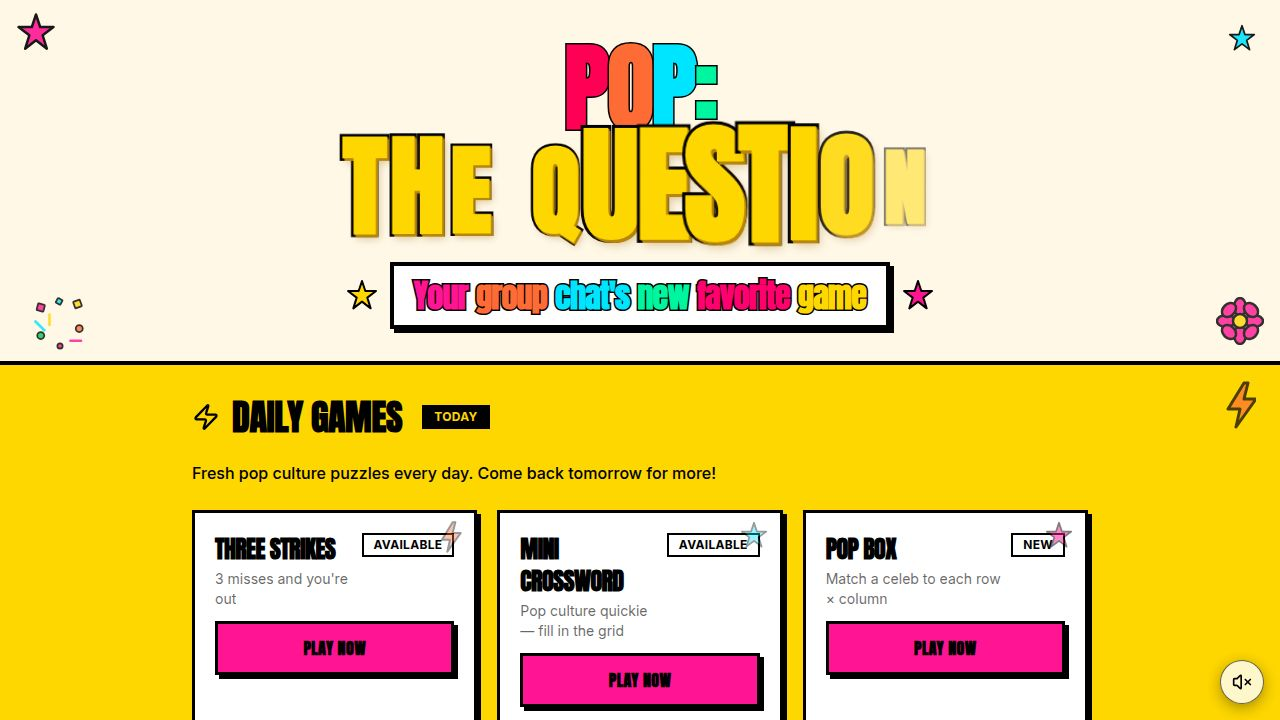
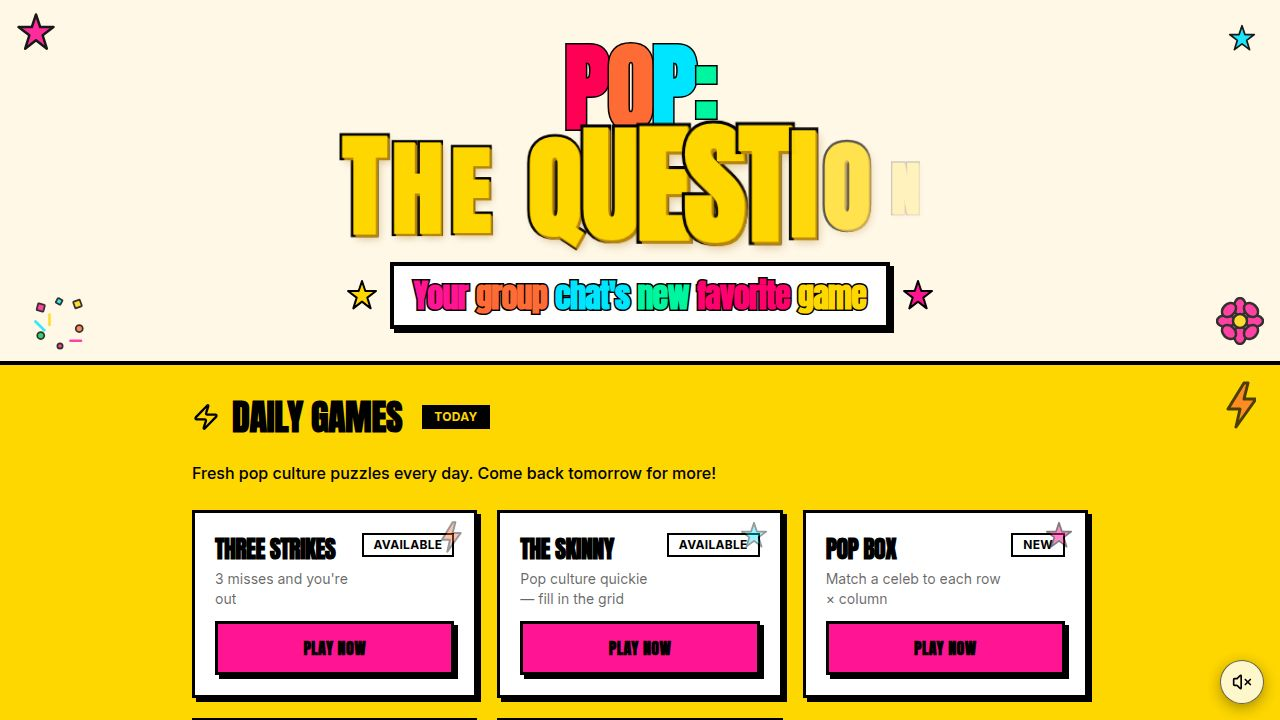
rename: Mini Crossword → The Skinny everywhere
- home.tsx: card heading "Mini Crossword" → "THE SKINNY"
- crossword.tsx: page <h1> and share text updated to "The Skinny"
- archive.tsx: filter button label, badge label, and list item title updated
- stats.tsx: section heading updated
- All localStorage keys, routes, API endpoints, DB tables, and puzzle JSON untouched
- Both dev workflows restarted (were stuck on stale port locks after Task #54 merge)

Changed region(s): [[0.125, 0.7333, 0.875, 1.0], [0.25, 0.1528, 0.75, 0.3667]]

diff --git a/artifacts/pop-the-question/src/pages/daily/crossword.tsx b/artifacts/pop-the-question/src/pages/daily/crossword.tsx
@@ -224,7 +224,7 @@ export default function Crossword() {
       for (let c = 0; c < 5; c++) gridEmoji += isBlackSquare(r, c) ? '⬛' : '🟩';
       gridEmoji += '\n';
     }
-    const shareText = `Pop: The Question - Mini Crossword\n${dateStr}\n\n${gridEmoji}\nTime: ${mm}:${ss}\n\npopthequestion.com`;
+    const shareText = `Pop: The Question - The Skinny\n${dateStr}\n\n${gridEmoji}\nTime: ${mm}:${ss}\n\npopthequestion.com`;
     navigator.clipboard.writeText(shareText).then(() => toast({ title: "Copied!", description: "Share your time with friends." }));
   };
 
@@ -291,7 +291,7 @@ export default function Crossword() {
       <header className="relative bg-[#00E5FF] border-[3px] border-black shadow-[4px_4px_0_#000] px-5 py-4 mb-6 flex justify-between items-center overflow-hidden">
         <StarDoodle className="absolute top-2 right-16 w-7 h-7 text-[#FF1493] opacity-40" />
         <div>
-          <h1 className="font-display text-3xl font-black text-black uppercase tracking-tight">Mini Crossword</h1>
+          <h1 className="font-display text-3xl font-black text-black uppercase tracking-tight">The Skinny</h1>
           <p className="text-sm font-bold text-black/60 font-sans">{puzzle.date}</p>
         </div>
         <div className="flex-shrink-0">

diff --git a/artifacts/pop-the-question/src/pages/home.tsx b/artifacts/pop-the-question/src/pages/home.tsx
@@ -146,12 +146,12 @@ export default function Home() {
               </Link>
             </div>
 
-            {/* Mini Crossword */}
+            {/* The Skinny */}
             <div className="bg-white border-[3px] border-black shadow-[4px_4px_0_#000] p-5 relative overflow-hidden">
               <StarDoodle className="absolute top-2 right-3 w-7 h-7 text-[#00E5FF] opacity-40" />
               <div className="flex justify-between items-start mb-3">
                 <div>
-                  <h3 className="font-display text-2xl font-black text-black uppercase tracking-tight">Mini Crossword</h3>
+                  <h3 className="font-display text-2xl font-black text-black uppercase tracking-tight">THE SKINNY</h3>
                   <p className="text-sm text-black/60 font-sans mt-1">Pop culture quickie — fill in the grid</p>
                 </div>
                 {cwCompleted ? (

diff --git a/artifacts/pop-the-question/src/pages/archive.tsx b/artifacts/pop-the-question/src/pages/archive.tsx
@@ -63,7 +63,7 @@ export default function Archive() {
   const cwItems = (cwArchive ?? []).map((item) => ({
     ...item,
     type: "crossword" as const,
-    title: "Mini Crossword",
+    title: "The Skinny",
     prompt: "Pop culture crossword puzzle",
     totalCount: undefined as number | undefined,
     stats: getArchiveStats(item.id, "crossword"),
@@ -196,7 +196,7 @@ export default function Archive() {
               : f === "three-strikes"
                 ? "Three Strikes"
                 : f === "crossword"
-                  ? "Mini Crossword"
+                  ? "The Skinny"
                   : f === "pop-box"
                     ? "Pop Box"
                     : "Pop or Drop"}

diff --git a/artifacts/pop-the-question/src/pages/stats.tsx b/artifacts/pop-the-question/src/pages/stats.tsx
@@ -112,7 +112,7 @@ export default function Stats() {
             <CardHeader className="pb-4">
               <CardTitle className="text-2xl font-display flex items-center gap-2">
                 <Clock className="w-6 h-6 text-secondary drop-shadow-[0_0_8px_hsl(var(--secondary))]" />
-                Mini Crossword
+                The Skinny
               </CardTitle>
             </CardHeader>
             <CardContent>
